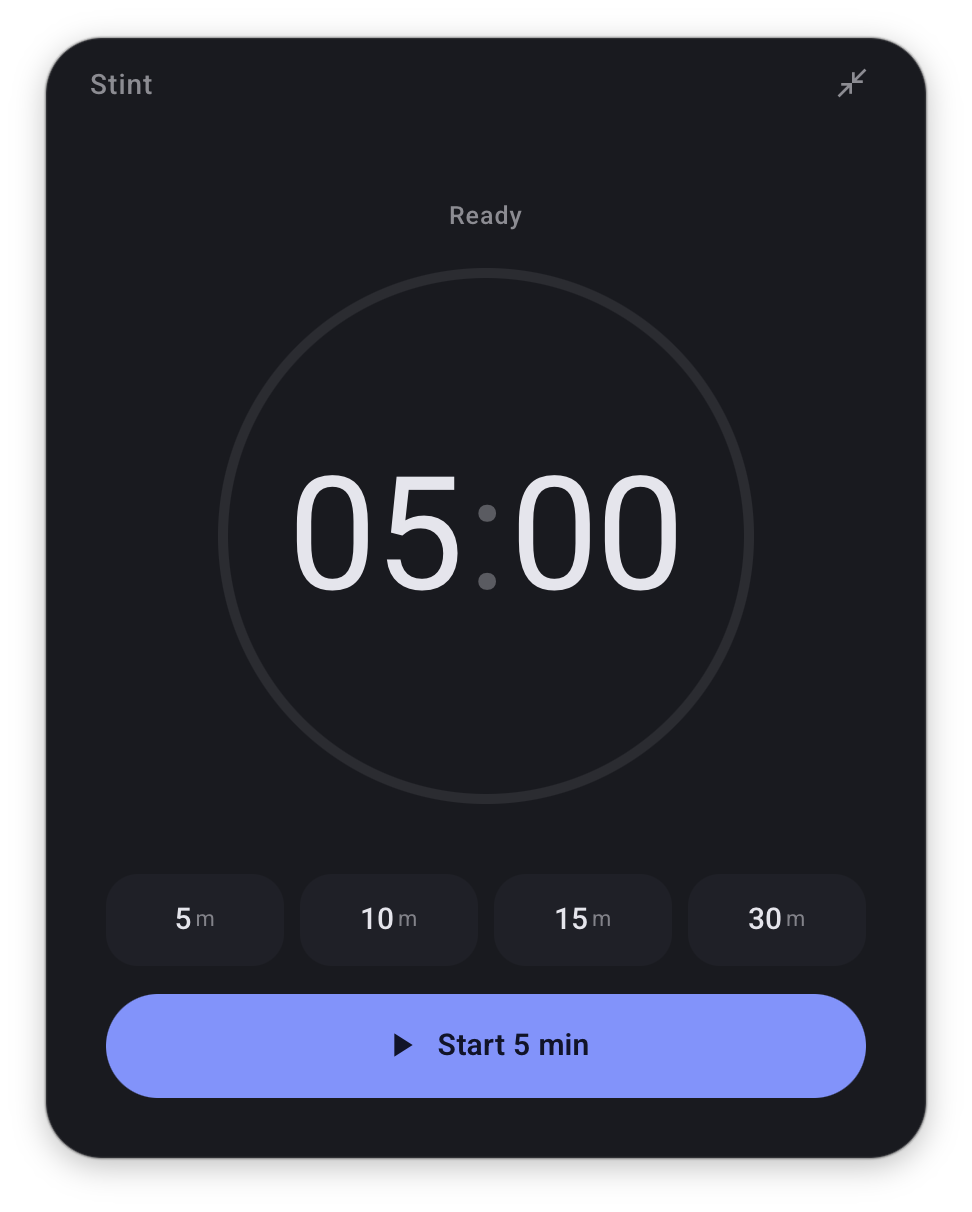
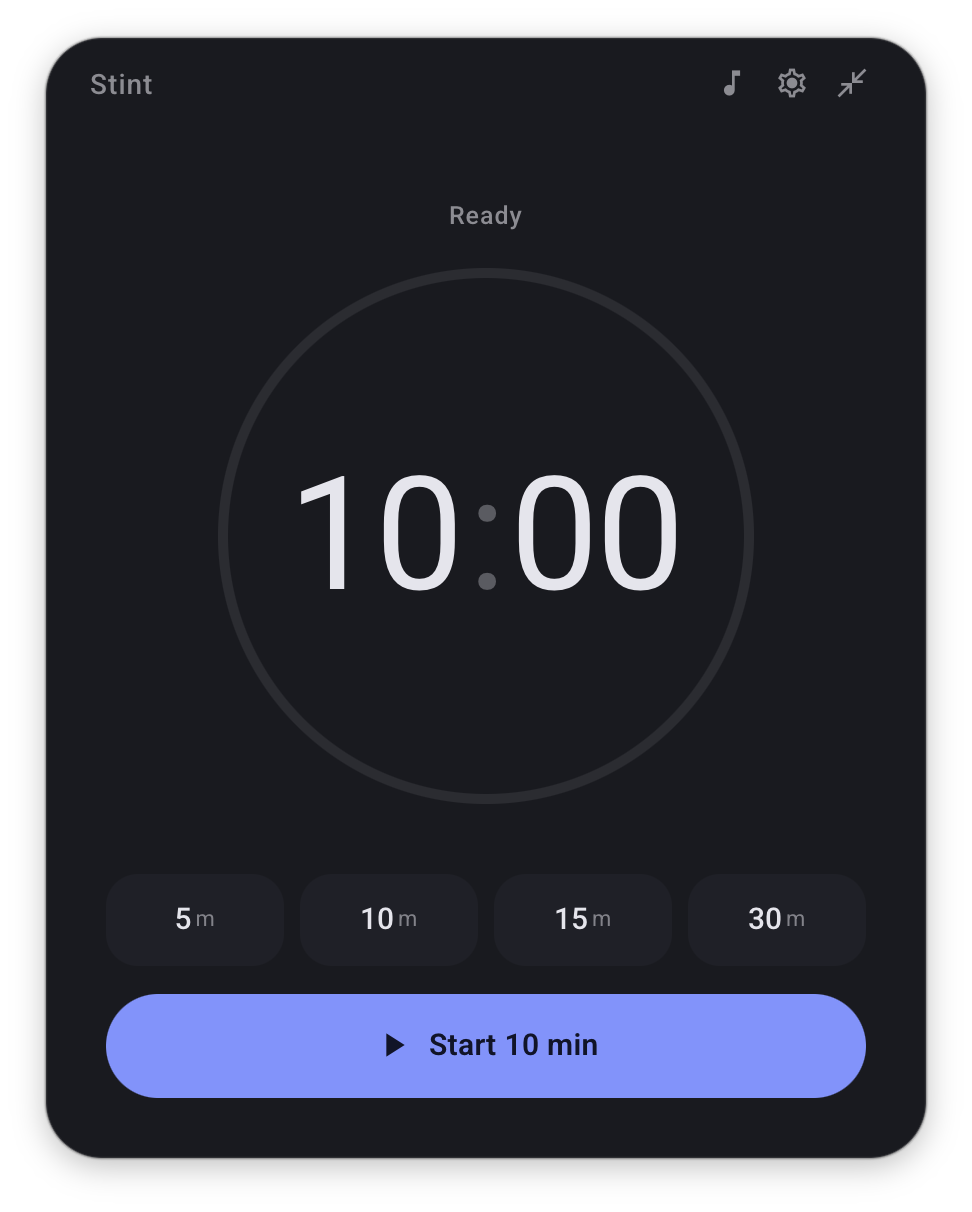
Refresh README screenshots (new music/settings UI, compact mode)
ready/done retaken with the mute + gear buttons visible; the middle
slot now shows compact mode (running.png → compact.png).

diff --git a/README.md b/README.md
@@ -9,7 +9,7 @@
 
 <p align="center">
   <img src="images/ready.png" alt="Stint ready to start" width="290">
-  <img src="images/running.png" alt="Stint focusing — countdown running" width="290">
+  <img src="images/compact.png" alt="Stint compact mode — slim glanceable bar" width="290">
   <img src="images/done.png" alt="Stint completion — time's up" width="290">
 </p>
 
